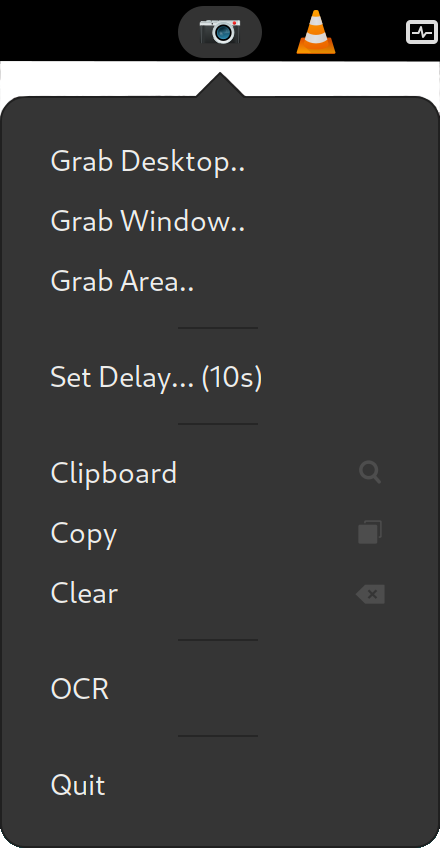
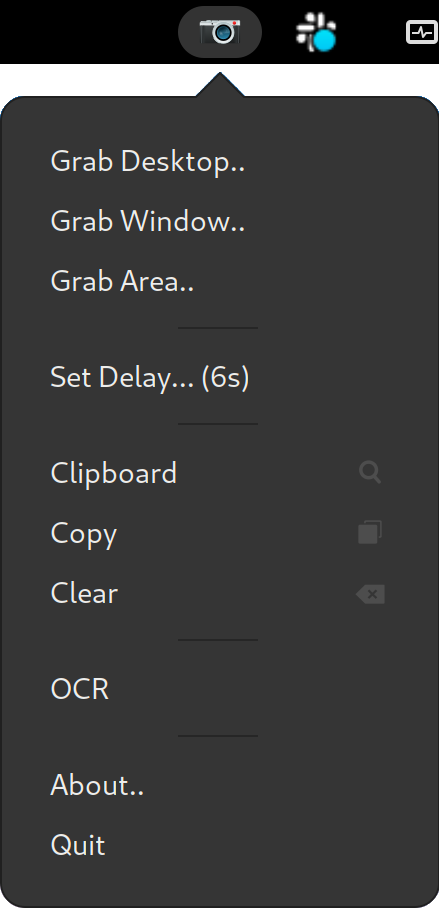
added About dialog
Former-commit-id: e2911f995ef91d50fc4b1df18012b9ae16bcc9f5

diff --git a/snappo.py b/snappo.py
@@ -116,7 +116,7 @@ class Snappo:
         self._add_menu_item('Grab Window..', self._grab_window)
         self._add_menu_item('Grab Area..', self._grab_area)
         self.menu.append(gtk.SeparatorMenuItem())
-        self.delay_widget=self._add_menu_item('Set delay..', self.show_slider)
+        self.delay_widget=self._add_menu_item('Set delay..', self.show_delay_dialog)
         self.menu.append(gtk.SeparatorMenuItem())
         clipboard_item = self._add_menu_item_with_icon('Clipboard', gi.repository.Gtk.STOCK_MISSING_IMAGE, self.show_thumb)
         self.screen_grabber.set_image_display(clipboard_item)
@@ -126,6 +126,7 @@ class Snappo:
         self.menu.append(gtk.SeparatorMenuItem())
         self._add_menu_item('OCR', self.screen_grabber.ocr)
         self.menu.append(gtk.SeparatorMenuItem())
+        self._add_menu_item('About..', self.show_about_dialog)
         self._add_menu_item('Quit', self.quit)
 
     def show_thumb(self, widget):
@@ -140,7 +141,42 @@ class Snappo:
           label=label+" ("+str(int(self.delay))+"s)"
         self.delay_widget.set_label(label)
 
-    def show_slider(self, widget):
+    def show_about_dialog(self, widget):
+        about = gtk.AboutDialog()
+        about.set_title("About..")
+        about.set_name("SNapshot APPlicatiOn")
+        about.set_program_name("Snappo")
+        about.set_version("V 0.1")
+        about.set_authors(["Luca Viola"])
+        about.set_copyright("© 2021 by Luca Viola")
+        about.set_comments("A Screen Snapshot tool with OCR\nand Barcode recognition capabilities")
+        about.set_website("https://github.com/luca-viola/snappo")
+        about.set_website_label("Snappo on Github")
+        about.set_logo(gi.repository.GdkPixbuf.Pixbuf.new_from_file_at_size("camera.svg", 64, 64))
+        about.set_license_type(gtk.License.GPL_3_0)
+        about.set_wrap_license(True)
+        about.set_license("""
+Snappo
+
+Copyright (C) 2021 Luca Viola
+
+This program is free software: you can redistribute it and/or modify
+it under the terms of the GNU General Public License as published by
+the Free Software Foundation, either version 3 of the License, or
+(at your option) any later version.
+
+This program is distributed in the hope that it will be useful,
+but WITHOUT ANY WARRANTY; without even the implied warranty of
+MERCHANTABILITY or FITNESS FOR A PARTICULAR PURPOSE.  See the
+GNU General Public License for more details.
+
+You should have received a copy of the GNU General Public License
+along with this program.  If not, see <http://www.gnu.org/licenses/>.
+        """)
+        about.run()
+        about.destroy()
+
+    def show_delay_dialog(self, widget):
         msg = "Set screenshot delay in seconds:"
         title = "Set Delay"
         dialog = gtk.MessageDialog( None, gtk.DialogFlags.MODAL, gtk.MessageType.QUESTION, gtk.ButtonsType.OK,  msg)

diff --git a/README.md b/README.md
@@ -42,6 +42,7 @@ In case of problems, more information about the installation of the python Gtk O
 ### Usage
 <img src="docs/snappo_menu.png" alt="Main Menu" style="width:200px;"/>
 <img src="docs/snappo_timer.png" alt="Delay slider" style="width:200px;"/>  
+<img src="docs/snappo_about.png" alt="Delay slider" style="width:200px;"/>  
 
 The usage is pretty straightforward. When started, an icon with a camera will appear in the gnome top menu bar.
 From this you can show the popup menu with some options:
@@ -69,5 +70,7 @@ From this you can show the popup menu with some options:
   in the clipboard. If the barcode detection is unsuccessful, an optical character recognition will be performed, and 
   the resulting text copied in the clipboard. The barcodes recognized are the ones supported by the zbar package, and 
   the OCR is performed by the open source package tesseract.
+* **About**..  
+  Show an About dialog with credits and license.  
 * **Quit**  
   Exits from Snappo and cleans up resources.
